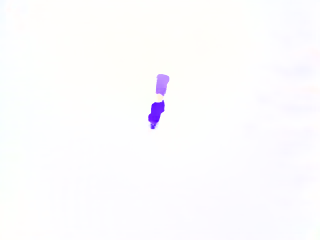
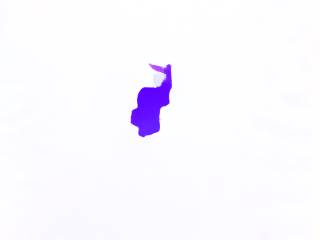
Fix image padding for load_diffusion_images, optical flow now produced realistic transforms

Changed region(s): [[0.4062, 0.2625, 0.5625, 0.5833]]

diff --git a/AVDC_experiments/AVDC_experiments/experiment/isaaclab_policy.py b/AVDC_experiments/AVDC_experiments/experiment/isaaclab_policy.py
@@ -226,7 +226,7 @@ class IsaacMyPolicyCL:
         return image, depth, seg, cmat
 
     def _load_diffusion_images(self, frame_0: np.ndarray) -> np.ndarray:
-        """Load cached diffusion frames and pad them to mirror pred_video output."""
+        """Load cached diffusion frames, center-crop to 128x128, then pad to mirror pred_video output."""
         if not self.diffusion_images_dir.exists():
             raise FileNotFoundError(f"Diffusion image directory '{self.diffusion_images_dir}' not found.")
 
@@ -236,30 +236,71 @@ class IsaacMyPolicyCL:
                 f"Expected exactly 8 diffusion frames in '{self.diffusion_images_dir}', found {len(image_paths)}."
             )
 
-        frames = []
-        for path in image_paths:
-            img = cv2.imread(str(path), cv2.IMREAD_COLOR)
-            if img is None:
-                raise FileNotFoundError(f"Failed to load diffusion frame '{path}'.")
-            img = cv2.cvtColor(img, cv2.COLOR_BGR2RGB)
-            if img.shape[:2] != (128, 128):
-                img = cv2.resize(img, (128, 128), interpolation=cv2.INTER_LINEAR)
-            frames.append(img)
-
-        frames_np = np.stack(frames, axis=0).astype(np.uint8)
-
-        original_shape = frame_0.shape
+        original_shape = frame_0.shape  # (H, W, C)
         center = (original_shape[1] // 2, original_shape[0] // 2)
         xpad = center[0] - 64
         ypad = center[1] - 64
+
         if xpad < 0 or ypad < 0:
             raise ValueError(
                 f"Cannot pad diffusion frames to match original shape {original_shape}; resolution too small."
             )
 
+        frames = []
+        for path in image_paths:
+            img = cv2.imread(str(path), cv2.IMREAD_COLOR)
+            if img is None:
+                raise FileNotFoundError(f"Failed to load diffusion frame '{path}'.")
+
+            # BGR -> RGB
+            img = cv2.cvtColor(img, cv2.COLOR_BGR2RGB)
+
+            # Center-crop to 128x128 (no resizing / interpolation)
+            h, w = img.shape[:2]
+            if h < 128 or w < 128:
+                raise ValueError(
+                    f"Diffusion frame '{path}' is too small for a 128x128 center crop: got {w}x{h}."
+                )
+
+            top = (h - 128) // 2
+            left = (w - 128) // 2
+            bottom = top + 128
+            right = left + 128
+
+            img_cropped = img[top:bottom, left:right]
+
+            # Safety check
+            if img_cropped.shape[:2] != (128, 128):
+                raise RuntimeError(
+                    f"Center crop for '{path}' did not produce 128x128; got {img_cropped.shape[:2]}."
+                )
+
+            frames.append(img_cropped)
+
+        # Stack into (F, H, W, C) uint8
+        frames_np = np.stack(frames, axis=0).astype(np.uint8)
+
+        # Convert to (F, C, H, W)
         frames_chw = frames_np.transpose(0, 3, 1, 2)
-        frames_padded = np.pad(frames_chw, ((0, 0), (0, 0), (ypad, ypad), (xpad, xpad)), mode="constant")
+
+        # Pad back to original spatial resolution (same as pred_video)
+        frames_padded = np.pad(
+            frames_chw,
+            pad_width=((0, 0), (0, 0), (ypad, ypad), (xpad, xpad)),
+            mode="constant",
+        )
+
+        # Save debug images
+        debug_dir = Path("debug")
+        debug_dir.mkdir(parents=True, exist_ok=True)
+        for i in range(frames_padded.shape[0]):
+            frame = frames_padded[i].transpose(1, 2, 0)  # C, H, W -> H, W, C
+            # Convert RGB to BGR for OpenCV
+            frame_bgr = cv2.cvtColor(frame, cv2.COLOR_RGB2BGR)
+            cv2.imwrite(str(debug_dir / f"diffusion_padded_{i}.png"), frame_bgr)
+
         return frames_padded
+ 
 
     def calculate_next_plan(self):
         image, depth, seg, cmat = self._fetch_camera_observations()
@@ -329,7 +370,8 @@ class IsaacMyPolicyCL:
         return action
 
     def _desired_pos(self, pos_curr: np.ndarray):
-        move_precision = 0.12 if self.mode == "push" else 0.04
+        move_precision = 0.06
+        print(self.mode)
         # if stucked/stopped(all subgoals reached), replan
         if self.replan_countdown <= 0 and self.replans > 0:
             grasp, transforms = self.calculate_next_plan()
@@ -355,6 +397,8 @@ class IsaacMyPolicyCL:
         # move end effector to the current subgoal
         if self.subgoals and np.linalg.norm(pos_curr - self.subgoals[0]) > move_precision:
             print("moving to current subgoal")
+            print(self.subgoals[0])
+            print(np.linalg.norm(pos_curr - self.subgoals[0]))
             return self.subgoals[0]
         # if close enough to the current subgoal, move to the next subgoal
         if self.subgoals and len(self.subgoals) > 1:

diff --git a/scripts/rsl_rl/play_avdc.py b/scripts/rsl_rl/play_avdc.py
@@ -28,7 +28,7 @@ DEFAULT_FLOW_CKPT = (
 
 def _parse_args():
     parser = argparse.ArgumentParser(description="Play the AVDC diffusion policy inside Isaac Lab.")
-    parser.add_argument("--task", type=str, default="Isaac-Lift-Cube-Franka-Custom-IK-Rel-v0", help="Name of the task.")
+    parser.add_argument("--task", type=str, default="Isaac-Lift-Cube-Franka-IK-Rel-v0", help="Name of the task.")
     parser.add_argument(
         "--agent",
         type=str,

diff --git a/AVDC_experiments/AVDC_experiments/experiment/mypolicy.py b/AVDC_experiments/AVDC_experiments/experiment/mypolicy.py
@@ -838,4 +838,4 @@ class MyPolicy_Flow(Policy):
         if self.grasped or self.mode == "push" or not self.grasped and np.linalg.norm(pos_curr[2] - self.grasp[2]) < 0.08:
             return 0.8
         else:
-            return -0.8
+            return -0.8lve
